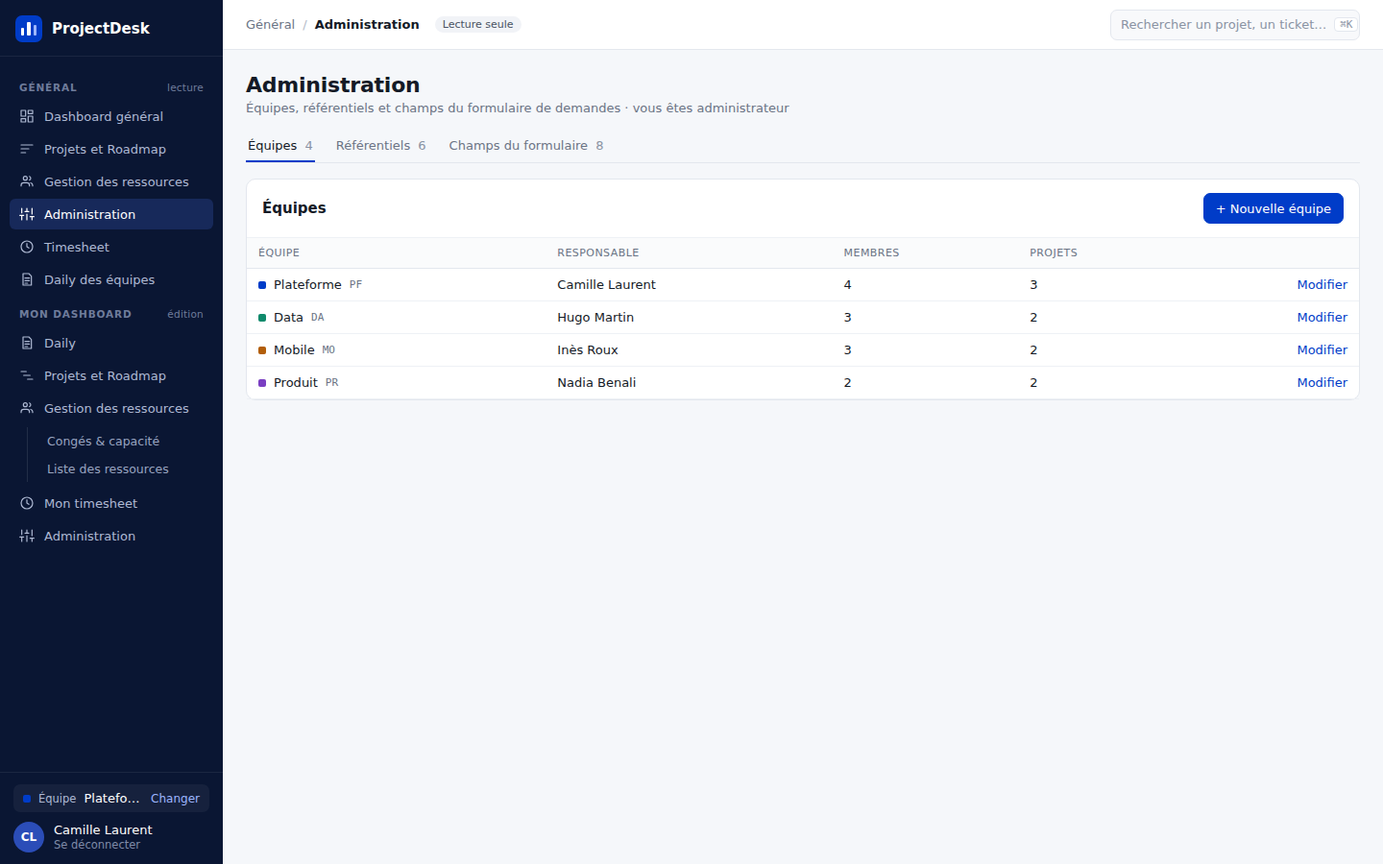
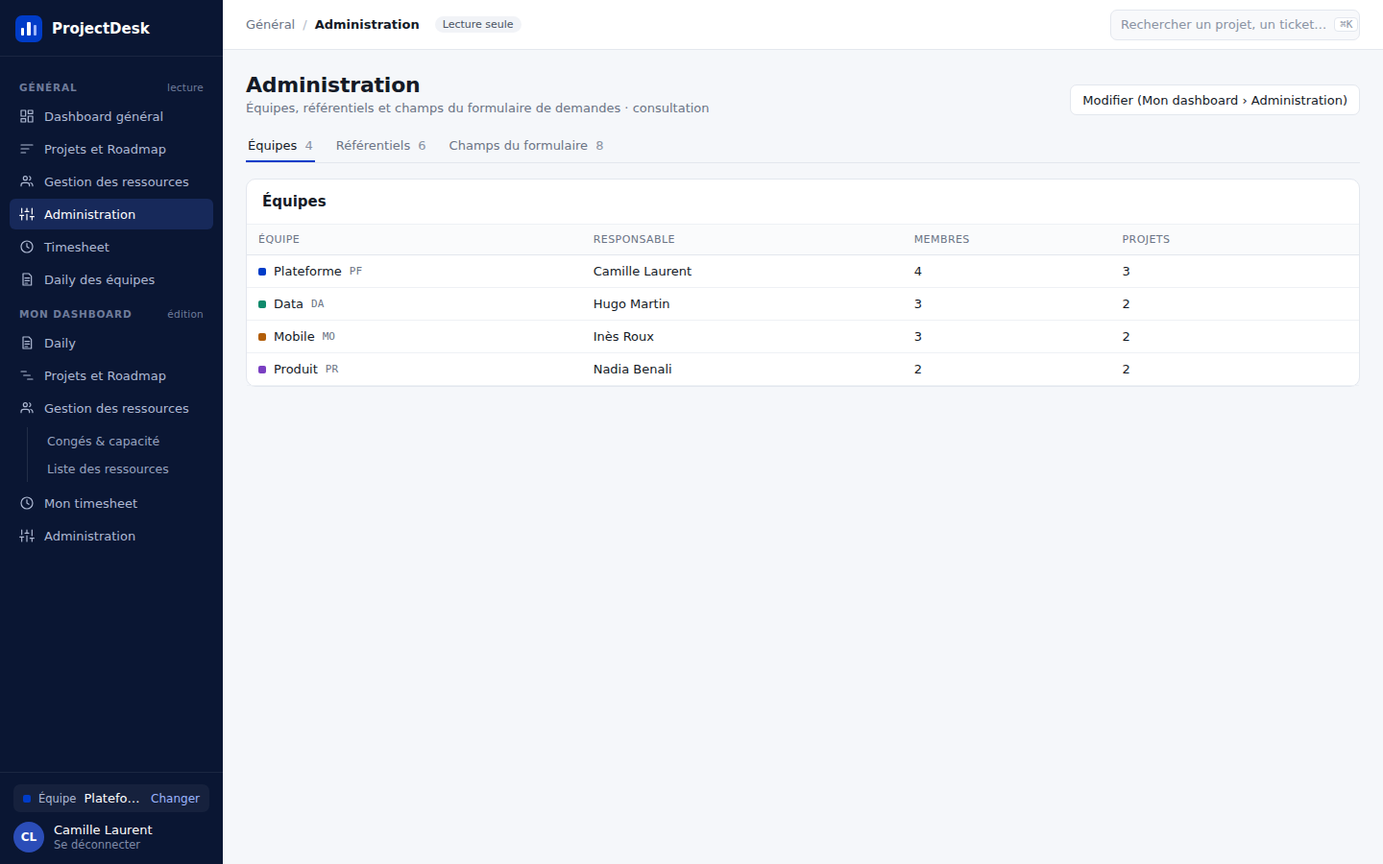
Section Général strictement en lecture seule
- Général › Administration : consultation uniquement (plus de création
  d'équipe ni d'édition des référentiels)
- Mon dashboard › Administration : nouveaux onglets Équipes
  (administrateurs, responsables) et Référentiels (administrateurs) ;
  accessible sans équipe pour un administrateur
- Correction : action modifierEquipe définie deux fois (la fenêtre
  équipe ne chargeait pas les membres ni l'invitation)
- Test automatique « Général = lecture seule » sur tous les écrans et
  le panneau projet ; 32 contrôles au vert
- DAT v1.7 (règle ajoutée aux points de cohérence), app/README

Claude-Session: https://claude.ai/code/session_0187v8SY8uiT6dnWqjjqJYb6

diff --git a/app/js/ecrans/administration.js b/app/js/ecrans/administration.js
@@ -1,62 +1,52 @@
 /* ============================================================
-   Général › Administration (maquette 04-gAdmin.png)
+   Général › Administration (maquette 04-gAdmin.png) — LECTURE SEULE
    Onglets Équipes, Référentiels, Champs du formulaire.
-   Lecture pour tous ; modification réservée aux administrateurs
-   globaux (table administrateurs, contrôlée aussi par la base).
+   Règle : la section « Général » ne modifie jamais rien. Les
+   modifications se font dans Mon dashboard › Administration
+   (administrateurs globaux ; contrôlé aussi par la base).
+   Les tableaux « Équipes » et « Référentiels » sont partagés avec
+   Mon admin via le paramètre « modifiable ».
    ============================================================ */
 'use strict';
 
-Ecrans.administration = {
-  titre: 'Administration',
-  section: 'general',
-  rendre() {
-    const u = ui('administration', { onglet: 'equipes', referentiel: 'type' });
-    const onglets = C.onglets([
-      { id: 'equipes', libelle: 'Équipes', compte: etat.d.equipes.length },
-      { id: 'referentiels', libelle: 'Référentiels', compte: etat.d.referentiels.length },
-      { id: 'champs', libelle: 'Champs du formulaire', compte: etat.d.champs.length }
-    ], u.onglet, 'ongletAdministration');
-    const corps = u.onglet === 'equipes' ? this.equipes() : u.onglet === 'referentiels' ? this.referentiels(u.referentiel) : this.champs();
-    const retour = !etat.equipeCourante ? `<button class="btn" data-action="aller" data-ecran="choixEquipe">Choix de l’équipe</button>` : '';
-    return `
-    <div class="ecran">
-      ${C.entete('Administration', 'Équipes, référentiels et champs du formulaire de demandes' + (etat.estAdmin ? ' · vous êtes administrateur' : ''), retour)}
-      ${onglets}${corps}
-    </div>`;
-  },
-
-  equipes() {
+const Administration = {
+  // Tableau des équipes ; modifiable = boutons « Nouvelle équipe » / « Modifier »
+  equipes(modifiable) {
     const esc = C.esc;
     const lignes = etat.d.equipes.map(e => {
       const resp = ressource(e.responsableId);
+      const peutModifier = modifiable && (etat.estAdmin || estResponsableDe(e.id));
       return `<tr><td><span class="ligne-flex">${C.pastille(e.couleur)}${esc(e.nom)} ${C.code(e.prefixe)}</span></td><td>${resp ? esc(resp.nom) : '<span class="pale">—</span>'}</td>
         <td>${etat.d.ressources.filter(r => r.equipeId === e.id).length}</td><td>${etat.d.projets.filter(p => p.equipeId === e.id).length}</td>
-        <td class="num">${etat.estAdmin || estResponsableDe(e.id) ? `<a data-action="modifierEquipe" data-id="${e.id}">Modifier</a>` : ''}</td></tr>`;
+        <td class="num">${peutModifier ? `<a data-action="modifierEquipe" data-id="${e.id}">Modifier</a>` : ''}</td></tr>`;
     }).join('');
     return `<div class="carte"><div class="carte-titre"><h2>Équipes</h2>
-        ${etat.estAdmin ? '<button class="btn primaire" data-action="nouvelleEquipe">+ Nouvelle équipe</button>' : ''}</div>
+        ${modifiable && etat.estAdmin ? '<button class="btn primaire" data-action="nouvelleEquipe">+ Nouvelle équipe</button>' : ''}</div>
       <table class="tableau"><thead><tr><th>Équipe</th><th>Responsable</th><th>Membres</th><th>Projets</th><th></th></tr></thead>
-      <tbody>${lignes || `<tr><td colspan="5">${C.vide('Aucune équipe. Un administrateur crée la première équipe.')}</td></tr>`}</tbody></table></div>`;
+      <tbody>${lignes || `<tr><td colspan="5">${C.vide('Aucune équipe. Un administrateur crée la première équipe (Mon dashboard › Administration).')}</td></tr>`}</tbody></table></div>`;
   },
 
-  referentiels(refId) {
-    const esc = C.esc, admin = etat.estAdmin, ref = parId('referentiels', refId) || etat.d.referentiels[0];
-    const gauche = etat.d.referentiels.map(r => `<a class="menu-lien${r.id === ref.id ? ' actif-clair' : ''}" style="color:var(--texte);justify-content:space-between;${r.id === ref.id ? 'background:#F3F6FF' : ''}"
+  // Référentiels et leurs valeurs ; modifiable = renommer, recolorer, activer, ajouter
+  referentiels(modifiable) {
+    const esc = C.esc, refId = ui('referentiels', { id: 'type' }).id;
+    const ref = parId('referentiels', refId) || etat.d.referentiels[0];
+    const gauche = etat.d.referentiels.map(r => `<a class="menu-lien" style="color:var(--texte);justify-content:space-between;${r.id === ref.id ? 'background:#F3F6FF' : ''}"
       data-action="choisirReferentiel" data-id="${r.id}"><span>${esc(r.nom)}</span><span class="pale">${valeursDe(r.id, true).length}</span></a>`).join('');
     const valeurs = valeursDe(ref.id, true).map((v, i) => `
       <tr><td class="pale">${i + 1}</td>
-        <td>${admin && !v.systeme ? `<input class="champ" value="${esc(v.libelle)}" data-action-change="renommerValeur" data-id="${v.id}">` : esc(v.libelle)}
+        <td>${modifiable && !v.systeme ? `<input class="champ" value="${esc(v.libelle)}" data-action-change="renommerValeur" data-id="${v.id}">` : esc(v.libelle)}
           ${v.systeme ? '<span class="pale" title="Utilisée par les calculs : ni renommage ni suppression"> · système</span>' : ''}</td>
-        <td>${admin ? `<input type="color" class="couleur-choix" value="${v.couleur}" data-action-change="colorerValeur" data-id="${v.id}">` : C.pastille(v.couleur)}</td>
-        <td><button class="interrupteur${v.actif ? ' actif' : ''}" ${admin ? `data-action="basculerValeur" data-id="${v.id}"` : 'disabled'}></button></td></tr>`).join('');
+        <td>${modifiable ? `<input type="color" class="couleur-choix" value="${v.couleur}" data-action-change="colorerValeur" data-id="${v.id}">` : C.pastille(v.couleur)}</td>
+        <td>${modifiable ? `<button class="interrupteur${v.actif ? ' actif' : ''}" data-action="basculerValeur" data-id="${v.id}"></button>` : (v.actif ? 'Oui' : '<span class="pale">Non</span>')}</td></tr>`).join('');
     return `<div style="display:grid;grid-template-columns:240px minmax(0,1fr);gap:16px;align-items:start">
       <div class="carte" style="padding:8px">${gauche}</div>
       <div class="carte"><div class="carte-titre"><h2>${esc(ref.nom)}</h2></div>
         <table class="tableau"><thead><tr><th>#</th><th>Valeur</th><th>Couleur</th><th>Active</th></tr></thead><tbody>${valeurs}</tbody></table>
-        ${admin ? `<form class="ligne-flex" style="padding:12px 16px" data-action-envoi="ajouterValeur" data-ref="${ref.id}">
+        ${modifiable ? `<form class="ligne-flex" style="padding:12px 16px" data-action-envoi="ajouterValeur" data-ref="${ref.id}">
           <input class="champ" name="libelle" placeholder="Nouvelle valeur" required><button class="btn">Ajouter</button></form>` : ''}</div></div>`;
   },
 
+  // Champs du formulaire (lecture ; l'édition est dans Mon admin › Formulaire de demande)
   champs() {
     const esc = C.esc;
     const lignes = etat.d.champs.map(c => `<tr><td>${esc(c.libelle)}</td><td>${esc(c.type)}</td>
@@ -68,11 +58,31 @@ Ecrans.administration = {
   }
 };
 
+Ecrans.administration = {
+  titre: 'Administration',
+  section: 'general',
+  rendre() {
+    const onglet = ui('administration', { onglet: 'equipes' }).onglet;
+    const onglets = C.onglets([
+      { id: 'equipes', libelle: 'Équipes', compte: etat.d.equipes.length },
+      { id: 'referentiels', libelle: 'Référentiels', compte: etat.d.referentiels.length },
+      { id: 'champs', libelle: 'Champs du formulaire', compte: etat.d.champs.length }
+    ], onglet, 'ongletAdministration');
+    const corps = onglet === 'equipes' ? Administration.equipes(false) : onglet === 'referentiels' ? Administration.referentiels(false) : Administration.champs();
+    const lienEdition = etat.estAdmin ? `<button class="btn" data-action="aller" data-ecran="monAdmin">Modifier (Mon dashboard › Administration)</button>` : '';
+    return `
+    <div class="ecran">
+      ${C.entete('Administration', 'Équipes, référentiels et champs du formulaire de demandes · consultation', lienEdition)}
+      ${onglets}${corps}
+    </div>`;
+  }
+};
+
 Object.assign(Actions, {
   ongletAdministration: d => majUi('administration', { onglet: d.id }),
-  choisirReferentiel: d => majUi('administration', { referentiel: d.id }),
+  choisirReferentiel: d => majUi('referentiels', { id: d.id }),
   nouvelleEquipe: () => majEtat({ modale: { type: 'equipe', id: null } }),
-  modifierEquipe: d => majEtat({ modale: { type: 'equipe', id: d.id } }),
+  // (modifierEquipe est défini dans modale.js : il charge aussi les membres de l'équipe)
 
   renommerValeur: (d, el) => executer(() => Api.modifier('valeurs_referentiel', { id: 'eq.' + d.id }, { libelle: el.value.trim() }), 'valeurs'),
   colorerValeur: (d, el) => executer(() => Api.modifier('valeurs_referentiel', { id: 'eq.' + d.id }, { couleur: el.value }), 'valeurs'),

diff --git a/tests/parcours.js b/tests/parcours.js
@@ -68,12 +68,37 @@ const verifier = (nom, condition, detail = '') => { resultats.push({ nom, ok: !!
     await page.click('.fermer');
     await aller('ressources'); await page.click('[data-action="moisSuivant"]'); await capture('05-ressources');
     await aller('administration'); await capture('06-administration');
-    await page.click('[data-action="ongletAdministration"][data-id="referentiels"]'); await page.waitForTimeout(200);
-    await page.fill('form[data-action-envoi="ajouterValeur"] input', 'Demande légale');
-    await page.click('form[data-action-envoi="ajouterValeur"] button'); await page.waitForTimeout(300);
-    verifier('Administration : valeur de référentiel ajoutée', (await page.$$eval('input[data-action-change="renommerValeur"]', l => l.map(i => i.value))).includes('Demande légale'));
     await aller('timesheet'); await page.click('[data-action="semainePrecedente"]'); await page.click('[data-action="semaineSuivante"]');
     await capture('07-timesheet');
+
+    /* --- Règle : la section « Général » est en lecture seule ---
+       Aucun champ, formulaire ou action d'écriture dans les écrans Général (tous onglets). */
+    const ACTIONS_LECTURE = ['aller', 'ouvrirProjet', 'fermer', 'choisirTrimestre', 'filtrerEquipeProjets', 'deplierProjet',
+      'moisPrecedent', 'moisSuivant', 'semainePrecedente', 'semaineSuivante', 'ongletAdministration', 'choisirReferentiel',
+      'filtrerDailyEquipes', 'dailyEquipesAujourdhui', 'dailyEquipesDecaler'];
+    const ecritures = async () => page.$$eval('.contenu [data-action-change], .contenu [data-action-saisie], .contenu [data-action-envoi], .contenu [data-action]',
+      (els, permises) => els.map(e => e.dataset.actionChange || e.dataset.actionSaisie || e.dataset.actionEnvoi || e.dataset.action)
+        .filter(a => a && !permises.includes(a)), ACTIONS_LECTURE);
+    const interdites = [];
+    for (const ecran of ['dashboard', 'projets', 'ressources', 'timesheet', 'dailyEquipes', 'administration']) {
+      await aller(ecran);
+      if (ecran === 'administration') {
+        for (const onglet of ['equipes', 'referentiels', 'champs']) { await page.click(`[data-action="ongletAdministration"][data-id="${onglet}"]`); await page.waitForTimeout(150); interdites.push(...await ecritures()); }
+      } else interdites.push(...await ecritures());
+    }
+    await aller('projets'); await page.click('tr.cliquable[data-action="ouvrirProjet"]'); await page.waitForTimeout(200);
+    interdites.push(...await page.$$eval('.panneau [data-action-change], .panneau [data-action-envoi], .panneau [data-action-saisie]', els => els.map(e => 'panneau:' + (e.dataset.actionChange || e.dataset.actionEnvoi || e.dataset.actionSaisie))));
+    await page.click('.fermer');
+    verifier('Général : lecture seule (aucune action d’écriture)', interdites.length === 0, [...new Set(interdites)].join(', '));
+
+    /* --- Administration (Mon dashboard) : référentiels modifiables par l'administratrice --- */
+    await aller('monAdmin'); await page.click('[data-action="ongletMonAdmin"][data-id="referentiels"]'); await page.waitForTimeout(200);
+    await page.fill('form[data-action-envoi="ajouterValeur"] input', 'Demande légale');
+    await page.click('form[data-action-envoi="ajouterValeur"] button'); await page.waitForTimeout(300);
+    verifier('Mon admin : valeur de référentiel ajoutée', (await page.$$eval('input[data-action-change="renommerValeur"]', l => l.map(i => i.value))).includes('Demande légale'));
+    await page.click('[data-action="ongletMonAdmin"][data-id="equipes"]'); await page.click('[data-action="modifierEquipe"] >> nth=0'); await page.waitForTimeout(400);
+    verifier('Mon admin : fenêtre équipe avec membres et invitation', (await page.textContent('.modale')).includes('Camille Laurent') && !!(await page.$('.modale form[data-action-envoi="inviterDansEquipe"]')));
+    await page.click('.modale .fermer'); await page.click('[data-action="ongletMonAdmin"][data-id="demandes"]');
     verifier('Timesheet : pas de NaN', !(await texte()).includes('NaN'));
 
     await aller('dailyEquipes'); await page.waitForTimeout(300); await capture('17-daily-equipes');
@@ -171,7 +196,7 @@ const verifier = (nom, condition, detail = '') => { resultats.push({ nom, ok: !!
     verifier('Admin sans équipe : arrive dans l’outil (pas l’espace demandeur)', !(await texte()).includes('Espace demandeur') && (await texte()).includes('Dashboard général'));
     await page.click('[data-action="aller"][data-ecran="daily"]'); await page.waitForTimeout(200);
     verifier('Admin sans équipe : Mon dashboard invite à ouvrir une équipe', (await texte()).includes('Aucune équipe ouverte'));
-    await page.click('[data-action="aller"][data-ecran="administration"]'); await page.click('[data-action="ongletAdministration"][data-id="equipes"]');
+    await page.click('[data-action="aller"][data-ecran="monAdmin"]'); await page.click('[data-action="ongletMonAdmin"][data-id="equipes"]');
     await page.click('[data-action="nouvelleEquipe"]');
     await page.fill('form[data-action-envoi="enregistrerEquipe"] input[name=nom]', 'Direction Digitale');
     await page.fill('form[data-action-envoi="enregistrerEquipe"] input[name=prefixe]', 'dd');

diff --git a/app/js/ecrans/mon-admin.js b/app/js/ecrans/mon-admin.js
@@ -4,23 +4,40 @@
      de traitement (analyse, acceptation/refus, création du projet).
    - Formulaire de demande : champs, ordre, obligatoire, aperçu.
      (Modification des champs réservée aux administrateurs globaux.)
+   - Équipes et Référentiels (administrateurs globaux, et responsables
+     d'équipe pour « Modifier » leur équipe) : c'est ici, et non dans la
+     section Général (lecture seule), que l'administration se modifie.
+   Accessible sans équipe ouverte pour un administrateur (création de
+   la première équipe) ; l'onglet Demandes demande alors une équipe.
    ============================================================ */
 'use strict';
 
 Ecrans.monAdmin = {
   titre: 'Administration',
   section: 'moi',
+  sansEquipePermis: () => etat.estAdmin,        // voir coquille.js : écran ouvert sans équipe
   rendre() {
-    const u = ui('monAdmin', { onglet: 'demandes' });
+    const u = ui('monAdmin', { onglet: etat.equipeCourante ? 'demandes' : 'equipes' });
     const miennes = etat.d.demandes.filter(dm => dm.equipeId === etat.equipeCourante);
+    const gereEquipes = etat.estAdmin || mesEquipes().some(e => estResponsableDe(e.id));
     const onglets = C.onglets([
       { id: 'demandes', libelle: 'Demandes entrantes', compte: miennes.filter(dm => ['nouvelle', 'analyse'].includes(dm.statut)).length },
-      { id: 'formulaire', libelle: 'Formulaire de demande', compte: etat.d.champs.length }
+      { id: 'formulaire', libelle: 'Formulaire de demande', compte: etat.d.champs.length },
+      ...(gereEquipes ? [{ id: 'equipes', libelle: 'Équipes', compte: etat.d.equipes.length }] : []),
+      ...(etat.estAdmin ? [{ id: 'referentiels', libelle: 'Référentiels', compte: etat.d.referentiels.length }] : [])
     ], u.onglet, 'ongletMonAdmin');
+    let corps;
+    if (u.onglet === 'equipes') corps = Administration.equipes(true);
+    else if (u.onglet === 'referentiels') corps = Administration.referentiels(etat.estAdmin);
+    else if (u.onglet === 'formulaire') corps = this.formulaire();
+    else corps = etat.equipeCourante ? this.demandes(miennes, u.selection)
+      : `<div class="carte">${C.vide('Ouvrez ou créez une équipe (onglet Équipes) pour traiter ses demandes.')}</div>`;
+    const sousTitre = etat.equipeCourante ? `Demandes adressées à l’équipe ${C.esc(equipe(etat.equipeCourante).nom)}, formulaire${gereEquipes ? ', équipes' : ''}${etat.estAdmin ? ' et référentiels' : ''}`
+      : 'Création des équipes, référentiels et formulaire de demande';
     return `
     <div class="ecran" style="max-width:1500px">
-      ${C.entete('Administration', `Traitement des demandes adressées à l’équipe ${C.esc(equipe(etat.equipeCourante).nom)} et configuration du formulaire`)}
-      ${onglets}${u.onglet === 'demandes' ? this.demandes(miennes, u.selection) : this.formulaire()}
+      ${C.entete('Administration', sousTitre)}
+      ${onglets}${corps}
     </div>`;
   },
 

diff --git a/app/js/coquille.js b/app/js/coquille.js
@@ -89,7 +89,7 @@ const Coquille = (() => {
       <h2>Aucune équipe ouverte</h2>
       <p class="discret">Les écrans « Mon dashboard » travaillent dans une équipe. La section « Général » reste consultable.</p>
       ${mesEquipes().length ? '<button class="btn primaire" data-action="changerEquipe">Choisir une équipe</button>'
-        : etat.estAdmin ? '<button class="btn primaire" data-action="aller" data-ecran="administration">Créer une équipe (Administration)</button>' : ''}
+        : etat.estAdmin ? '<button class="btn primaire" data-action="aller" data-ecran="monAdmin">Créer une équipe (Administration)</button>' : ''}
     </div></div>`;
   }
 
@@ -106,7 +106,7 @@ const Coquille = (() => {
       ${barreLaterale()}
       <main class="principal">
         ${enTete(ecran)}
-        <div class="contenu">${ecran.section === 'moi' && !etat.equipeCourante ? sansEquipe() : ecran.rendre()}</div>
+        <div class="contenu">${ecran.section === 'moi' && !etat.equipeCourante && !(ecran.sansEquipePermis && ecran.sansEquipePermis()) ? sansEquipe() : ecran.rendre()}</div>
       </main>
       ${etat.panneau ? `<div class="voile" data-action="fermer"></div>${Panneau.rendre()}` : ''}
       ${etat.modale ? `<div class="voile" data-action="fermer"></div>${Modale.rendre()}` : ''}

diff --git a/app/js/etat.js b/app/js/etat.js
@@ -132,7 +132,7 @@ async function demarrer() {
       // première équipe, sinon le dashboard) ; les autres comptes sont des demandeurs.
       if (!etat.estAdmin) return majEtat({ chargement: false, equipeCourante: null, ecran: 'demandeur' });
       return majEtat({ chargement: false, equipeCourante: null,
-        ecran: ecranArrivee(etat.d.equipes.length ? 'dashboard' : 'administration') });
+        ecran: ecranArrivee(etat.d.equipes.length ? 'dashboard' : 'monAdmin') });
     }
     // Équipe ouverte : celle mémorisée sur ce poste, ou la seule équipe de l'utilisateur
     const choix = equipesReconnues.find(e => e.id === memorisee) || (equipesReconnues.length === 1 ? equipesReconnues[0] : null);

diff --git a/app/js/ecrans/choix-equipe.js b/app/js/ecrans/choix-equipe.js
@@ -38,7 +38,7 @@ Ecrans.choixEquipe = {
         <b style="color:var(--texte)">Vous n’êtes membre d’aucune équipe ?</b> Vous pouvez tout de même
         <a data-action="aller" data-ecran="demandeur">déposer une demande</a> et suivre son traitement.<br>
         Les équipes sont créées par un administrateur (menu Administration).
-        ${etat.estAdmin && !mesEquipes().length ? `<br><a data-action="aller" data-ecran="administration">Ouvrir l’administration</a>` : ''}
+        ${etat.estAdmin && !mesEquipes().length ? `<br><a data-action="aller" data-ecran="monAdmin">Ouvrir l’administration</a>` : ''}
       </div>
     </div></div>`;
   }

diff --git a/docs/DAT.md b/docs/DAT.md
@@ -19,6 +19,7 @@
 | 1.4     | 2026-09-25 | Administrateurs : lecture de tout sans équipe (migration 003), entrée directe dans l'outil ; ouverture automatique de l'équipe unique ou nouvellement créée (§ 5.2, § 7) |
 | 1.5     | 2026-09-25 | Nom affiché « ProjectDesk » (paramètre `NOM_APPLICATION`), sous-titre « Multi-projets · Multi-équipes » retiré (§ 1, § 2.1) |
 | 1.6     | 2026-09-25 | Nouvel écran Général › Daily des équipes ; notes de daily lisibles par les coéquipiers (migration 004) ; notes chargées sur 90 jours (§ 2, § 3.2, § 5, § 6) |
+| 1.7     | 2026-09-25 | **Section Général strictement en lecture seule** : édition des équipes et référentiels déplacée dans Mon dashboard › Administration ; contrôle automatique (§ 3, § 9, § 10) |
 
 ---
 
@@ -31,7 +32,9 @@ entrantes (formulaire administrable). Maquette de référence :
 `docs/maquettes/pilotage-projet/source/Pilotage_Projet.dc.html`.
 
 La barre latérale a deux sections :
-- **Général** (badge « Lecture seule ») : vue consolidée de **toutes** les équipes ;
+- **Général** (badge « Lecture seule ») : vue consolidée de **toutes** les équipes — **aucune
+  modification possible** dans cette section, y compris pour un administrateur (règle vérifiée
+  automatiquement par `tests/parcours.js`) ;
 - **Mon dashboard** (badge « Édition ») : ce que l'utilisateur modifie (ses notes, ses projets,
   les congés et affectations de ses équipes, ses heures, les demandes de son équipe).
 
@@ -102,7 +105,7 @@ Captures de l'application : `docs/maquettes/etat-actuel/` (générées par `test
 | `dashboard` | `dashboard.js` | KPI, objectifs du trimestre (T1–T4), progression par trimestre et par équipe, projets à surveiller | `03-dashboard.png` |
 | `projets` | `projets.js` | Projets groupés par équipe, filtre d'équipe, tickets dépliables, panneau en lecture | `04-projets.png` |
 | `ressources` | `ressources.js` | Calendrier mensuel des absences (composant `Calendrier`) + annuaire | `05-ressources.png` |
-| `administration` | `administration.js` | Onglets Équipes / Référentiels / Champs (écriture : administrateurs globaux) | `06-administration.png` |
+| `administration` | `administration.js` | Onglets Équipes / Référentiels / Champs, **consultation** (lien vers Mon dashboard › Administration pour les administrateurs) | `06-administration.png` |
 | `timesheet` | `timesheet.js` | Heures par personne et par jour d'une semaine, complétude, statut des feuilles | `07-timesheet.png` |
 | `dailyEquipes` | `daily-equipes.js` | Daily des membres de mes équipes pour un jour : filtre d'équipe, « Blocages du jour », membres sans note (et absence) — maquette `daily-equipes.png` | `17-daily-equipes.png` |
 
@@ -115,7 +118,7 @@ Captures de l'application : `docs/maquettes/etat-actuel/` (générées par `test
 | `conges` | `conges.js` | Grille mensuelle éditable (« pinceau » par type d'absence), récap annuel, capacité par sprint | `11-conges.png` |
 | `listeRessources` | `liste-ressources.js` | Arborescence équipe → projet → personnes, affectations, fiches ressources | `12-liste-ressources.png` |
 | `monTimesheet` | `mon-timesheet.js` | Saisie de mes heures, soumission ; validation/renvoi par le responsable d'équipe | `13-mon-timesheet.png` |
-| `monAdmin` | `mon-admin.js` | Demandes adressées à mon équipe (colonnes + fiche de traitement) ; formulaire de demande + aperçu | `14-mon-admin.png`, `15-formulaire.png` |
+| `monAdmin` | `mon-admin.js` | Demandes adressées à mon équipe (colonnes + fiche de traitement) ; formulaire de demande + aperçu ; **Équipes** (créer / modifier, membres, invitations — administrateurs et responsables) ; **Référentiels** (administrateurs). Ouvert sans équipe pour un administrateur | `14-mon-admin.png`, `15-formulaire.png` |
 
 ### 3.4 Éléments ajoutés par rapport à la maquette
 
@@ -231,7 +234,8 @@ refusée sur `referentiels`, `administrateurs` et `demandes` (usurpation).
    - une seule équipe (ou équipe mémorisée sur le poste) → ouverte directement, dashboard ;
    - plusieurs équipes sans mémoire → écran de choix d'équipe ;
    - administrateur sans équipe → directement dans l'outil (dashboard, ou Administration si
-     aucune équipe n'existe) ; les écrans « Mon dashboard » l'invitent à ouvrir/créer une équipe ;
+     aucune équipe n'existe, Mon dashboard › Administration) ; les autres écrans « Mon dashboard »
+     l'invitent à ouvrir/créer une équipe ;
    - compte sans équipe ni droit d'administration → espace demandeur.
 3. **Création d'équipe** (administrateur) : organisation Neon Auth (le créateur en devient
    `owner`) puis ligne `equipes` ; si aucune équipe n'était ouverte, la nouvelle s'ouvre. Invitation de membres par email (fenêtre équipe) ; la personne
@@ -269,7 +273,7 @@ refusée sur `referentiels`, `administrateurs` et `demandes` (usurpation).
 | Outil | Contenu |
 |-------|---------|
 | `tests/serveur-simule.js` | Neon Auth (dont Google simulé) + Data API simulés en mémoire, données de la maquette (comptes `camille@test.fr` administratrice/owner, `thomas@test.fr` membre, `elodie@test.fr` demandeuse, `admin@test.fr` administratrice sans équipe ; mot de passe `motdepasse`) |
-| `tests/parcours.js` | Parcours Playwright de bout en bout (30 contrôles, dont l'aller-retour Google simulé, le parcours administrateur sans équipe et le daily des équipes) + captures `docs/maquettes/etat-actuel/` |
+| `tests/parcours.js` | Parcours Playwright de bout en bout (32 contrôles, dont « Général en lecture seule », l'aller-retour Google simulé, le parcours administrateur sans équipe et le daily des équipes) + captures `docs/maquettes/etat-actuel/` |
 | `scripts/verifier-docs.js` | Cohérence documentation ↔ code après chaque commit (§ 11) |
 
 Les règles RLS ne sont pas simulées : elles sont vérifiées en base et lors de la recette réelle.
@@ -284,6 +288,9 @@ Les règles RLS ne sont pas simulées : elles sont vérifiées en base et lors d
 4. Nouvel écran → fichier `app/js/ecrans/`, entrée de menu dans `coquille.js`, balise `<script>`
    dans `index.html`, maquette PNG validée, ligne au § 3, capture dans `tests/parcours.js`.
 5. Droits : toujours en base (RLS) ; `etat.js` ne fait que masquer.
+6. **Section Général = lecture seule** : un écran `section: 'general'` n'affiche aucun champ,
+   formulaire ni action d'écriture ; toute modification va dans « Mon dashboard ». Une nouvelle
+   action de lecture utilisée en Général doit être ajoutée à `ACTIONS_LECTURE` dans `tests/parcours.js`.
 
 ## 11. Outillage qualité documentaire
 

diff --git a/app/README.md b/app/README.md
@@ -42,7 +42,7 @@ confiance de Neon Auth (Console Neon → Auth → Domains).
    insert into public.administrateurs (user_id)
    select id::text from neon_auth."user" where email = 'votre.email@entreprise.fr';
    ```
-3. Se reconnecter : l'administrateur arrive directement dans l'outil ; l'écran **Administration** permet de créer les équipes (chaque équipe est une
+3. Se reconnecter : l'administrateur arrive directement dans l'outil ; **Mon dashboard › Administration › Équipes** permet de créer les équipes (chaque équipe est une
    organisation Neon Auth dont vous devenez propriétaire), puis d'inviter les membres par email.
 4. Dans **Liste des ressources**, créer les fiches des personnes (avec leur email : le lien avec
    leur compte se fait automatiquement à leur connexion), puis les projets et affectations.
